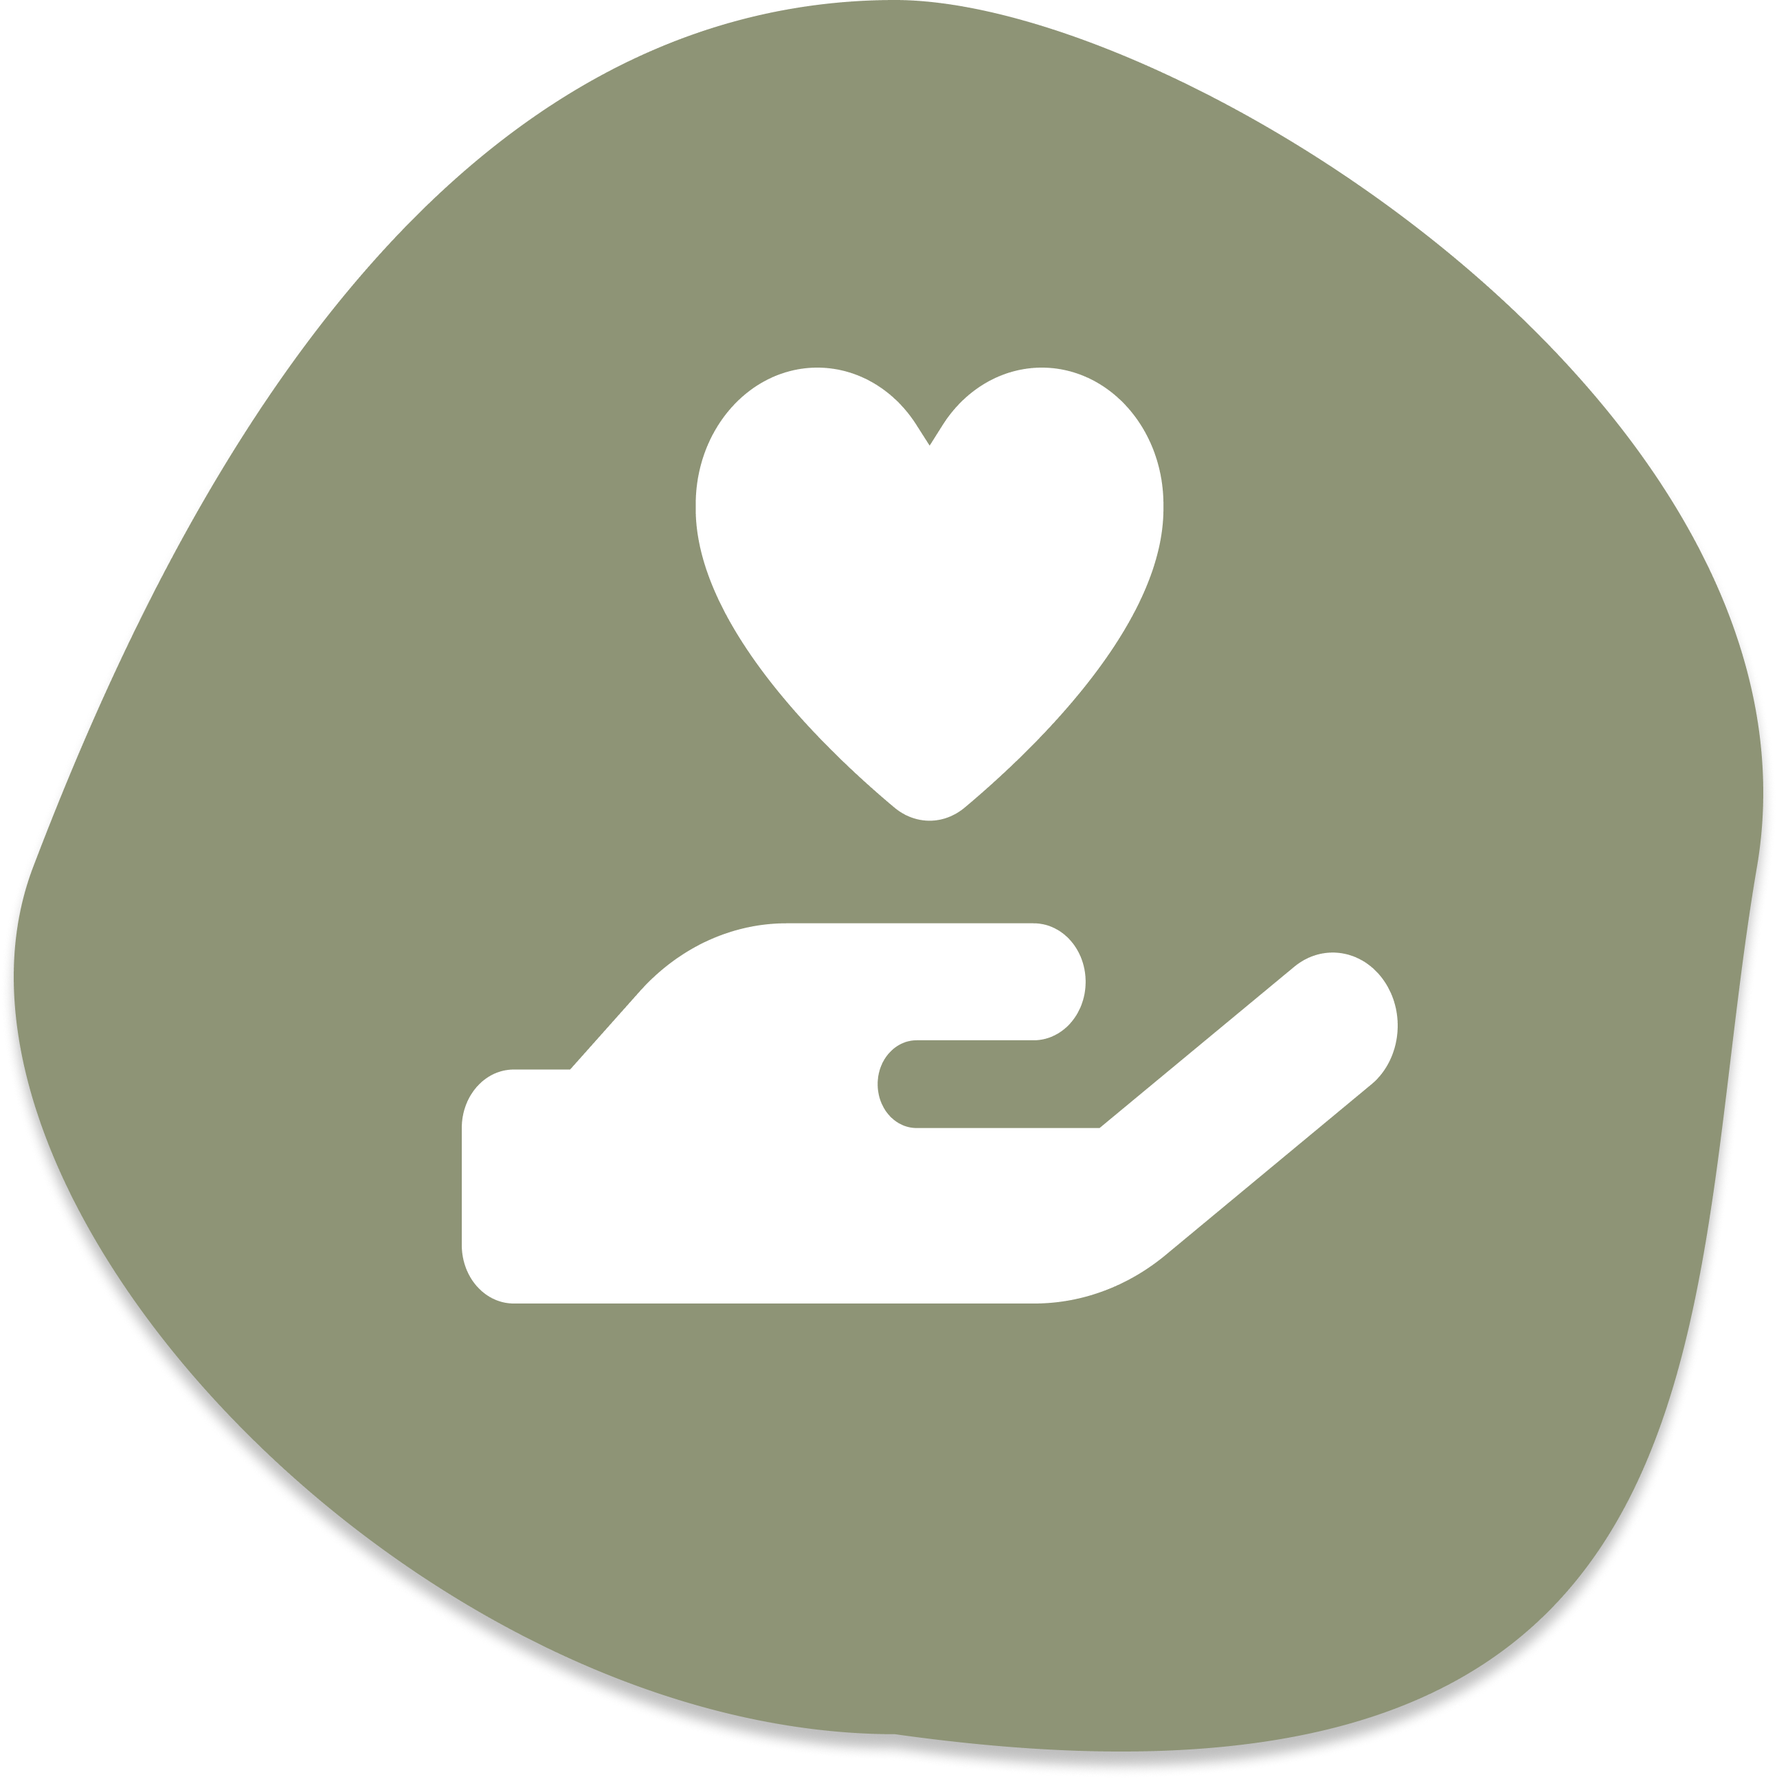
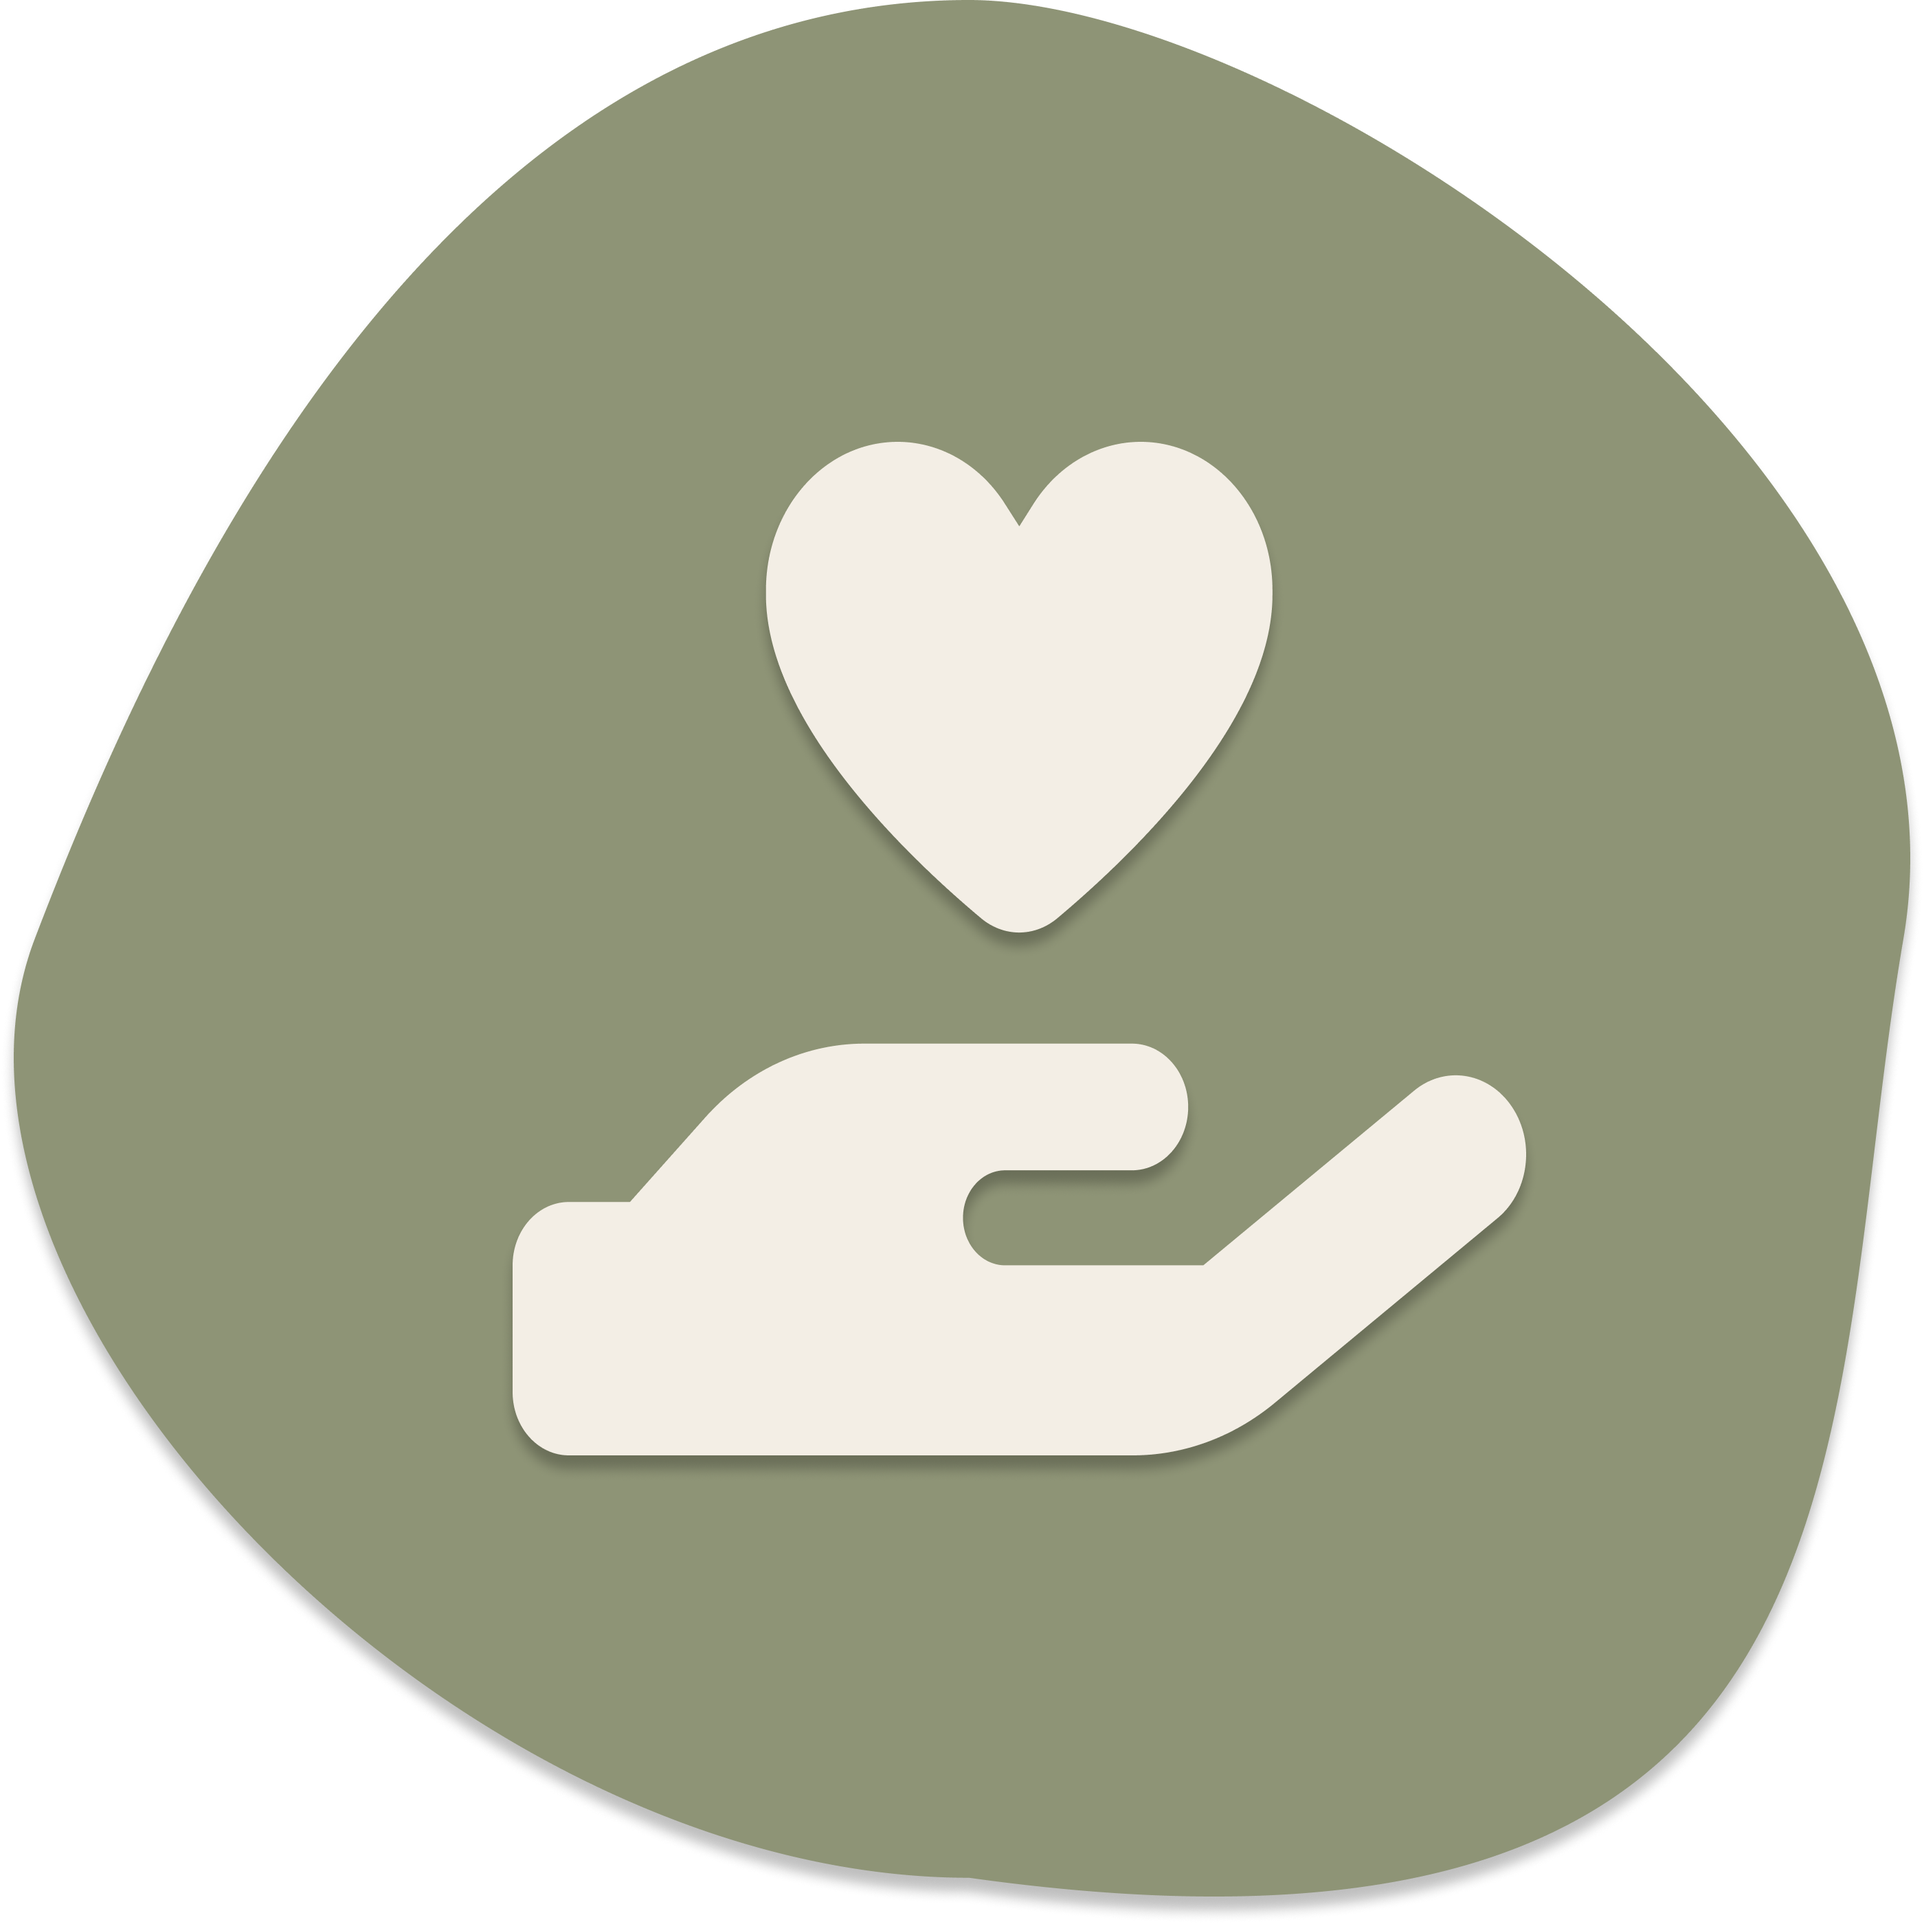
rettet til de rigtige ikoner på sagsbehandler forside

Changed region(s): [[0.2475, 0.1854, 0.8043, 0.7725]]

diff --git a/sagsbehandler-forside.php b/sagsbehandler-forside.php
@@ -134,37 +134,37 @@
 
         <!--ansvarlighed-->
         <div class="col-6 d-flex flex-column justify-content-center align-items-center">
-            <img src="shapes/light-green-shape-heart.png" class="mb-1" alt="shape" style="width: 90px">
+            <img src="shapes/light-green-shape-hand.png" class="mb-1" alt="shape" style="width: 90px">
             <strong class="cormorant font-fourteen mb-3">ANSVARLIGHED</strong>
         </div>
 
         <!--omsorg-->
         <div class="col-6 d-flex flex-column justify-content-center align-items-center">
-            <img src="shapes/light-green-shape-people.png" class="mb-1" alt="shape" style="width: 90px">
+            <img src="shapes/light-green-shape-heart.png" class="mb-1" alt="shape" style="width: 90px">
             <strong class="cormorant font-fourteen mb-3">OMSORG</strong>
         </div>
 
         <!--respekt-->
         <div class="col-6 d-flex flex-column justify-content-center align-items-center">
-            <img src="shapes/light-green-shape-hand.png" class="mb-1" alt="shape" style="width: 90px">
+            <img src="shapes/light-green-shape-people-standing.png" class="mb-1" alt="shape" style="width: 90px">
             <strong class="cormorant font-fourteen mb-3">RESPEKT</strong>
         </div>
 
         <!--rummelighed-->
         <div class="col-6 d-flex flex-column justify-content-center align-items-center">
-            <img src="shapes/light-green-shape-house.png" class="mb-1" alt="shape" style="width: 90px">
+            <img src="shapes/light-green-shape-people.png" class="mb-1" alt="shape" style="width: 90px">
             <strong class="cormorant font-fourteen mb-3">RUMMELIGHED</strong>
         </div>
 
         <!--udvikling-->
         <div class="col-6 d-flex flex-column justify-content-center align-items-center">
-            <img src="shapes/light-green-shape-people.png" class="mb-1" alt="shape" style="width: 90px">
+            <img src="shapes/light-green-shape-seed.png" class="mb-1" alt="shape" style="width: 90px">
             <strong class="cormorant font-fourteen mb-3">UDVIKLING</strong>
         </div>
 
         <!--åbenhed-->
         <div class="col-6 d-flex flex-column justify-content-center align-items-center">
-            <img src="shapes/light-green-shape-hand.png" class="mb-1" alt="shape" style="width: 90px">
+            <img src="shapes/light-green-shape-two-hands.png" class="mb-1" alt="shape" style="width: 90px">
             <strong class="cormorant font-fourteen mb-3">ÅBENHED</strong>
         </div>
 
